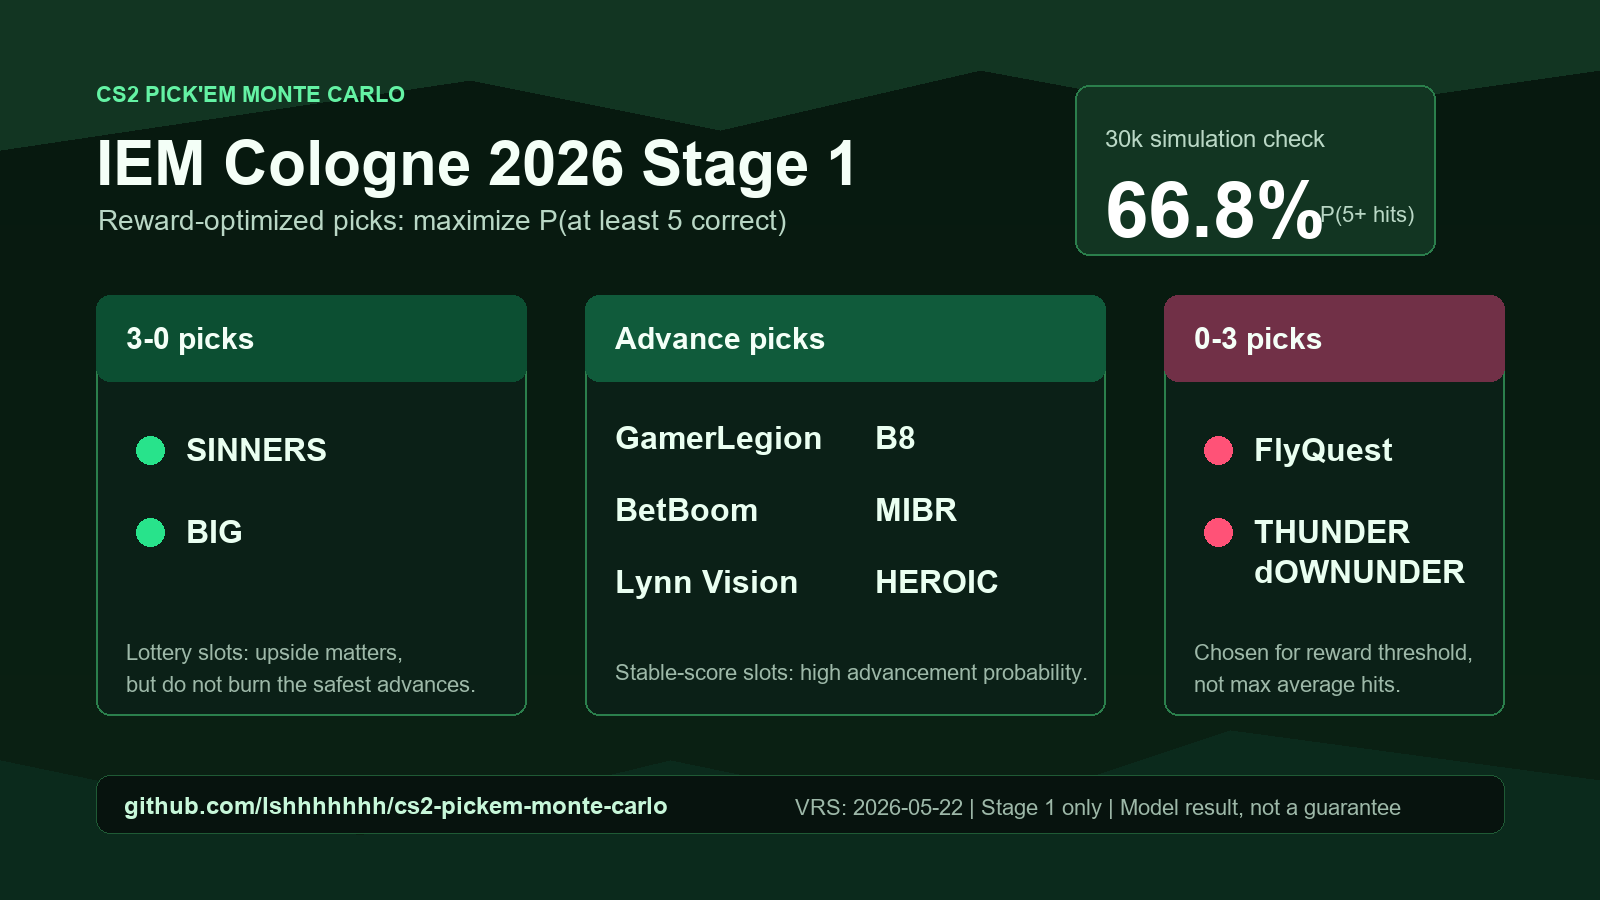
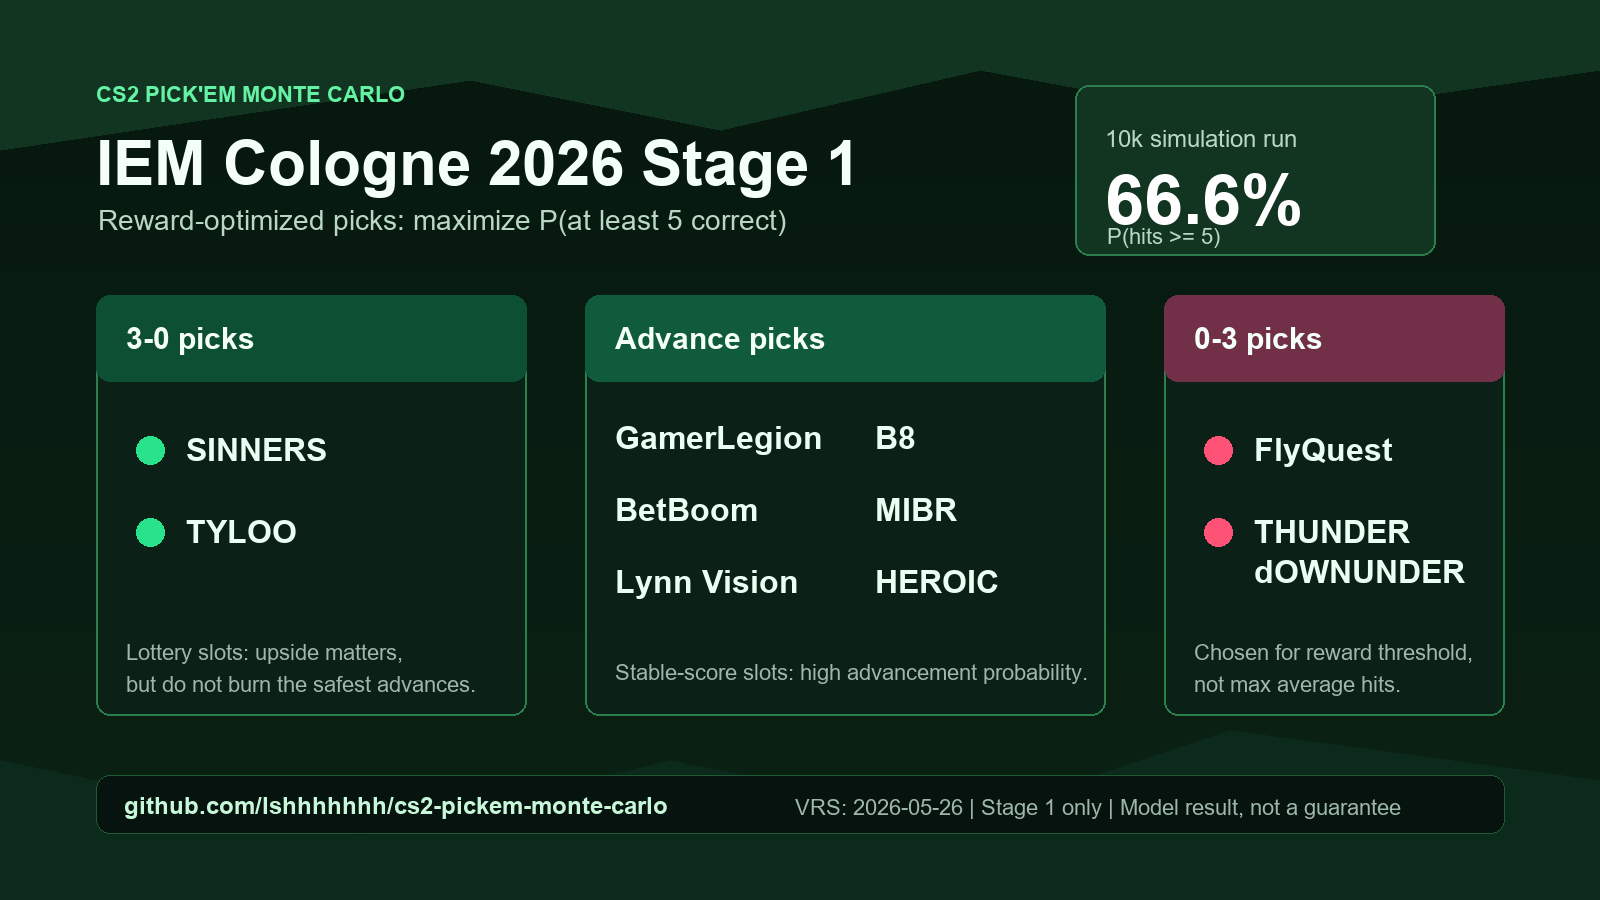
Update Stage 1 picks with May 26 VRS

Changed region(s): [[0.6875, 0.1244, 0.875, 0.28], [0.125, 0.56, 0.1875, 0.6222]]

diff --git a/scripts/render_result_card.py b/scripts/render_result_card.py
@@ -46,9 +46,9 @@ def main() -> None:
     text(draw, (98, 204), "Reward-optimized picks: maximize P(at least 5 correct)", 28, "#b9d7c5")
 
     rounded(draw, (1075, 85, 1435, 255), "#123522", "#2b7f4c", 2)
-    text(draw, (1105, 125), "30k simulation check", 24, "#b9d7c5")
-    text(draw, (1105, 166), "66.8%", 78, "#ffffff", True)
-    text(draw, (1107, 226), "P(hits >= 5)", 22, "#b9d7c5")
+    text(draw, (1105, 125), "10k simulation run", 24, "#b9d7c5")
+    text(draw, (1105, 160), "66.6%", 70, "#ffffff", True)
+    text(draw, (1107, 224), "P(hits >= 5)", 22, "#b9d7c5")
 
     panels = [
         ((96, 295, 526, 715), "#0c4f32", "3-0 picks"),
@@ -61,7 +61,7 @@ def main() -> None:
         draw.rounded_rectangle((x1, y1, x2, y1 + 86), radius=14, fill=header)
         text(draw, (x1 + 30, y1 + 26), title, 30, "#f4fff7", True)
 
-    for y, name in [(450, "SINNERS"), (532, "BIG")]:
+    for y, name in [(450, "SINNERS"), (532, "TYLOO")]:
         draw.ellipse((136, y - 14, 164, y + 14), fill="#28e38b")
         text(draw, (186, y - 18), name, 32, "#eafff1", True)
     text(draw, (126, 640), "Lottery slots: upside matters,", 22, "#9db8a8")
@@ -81,7 +81,7 @@ def main() -> None:
 
     rounded(draw, (96, 775, 1504, 833), "#07130e", "#1f5a35", 1)
     text(draw, (124, 792), "github.com/lshhhhhhh/cs2-pickem-monte-carlo", 24, "#c7f7d9", True)
-    text(draw, (795, 795), "VRS: 2026-05-22 | Stage 1 only | Model result, not a guarantee", 22, "#9db8a8")
+    text(draw, (795, 795), "VRS: 2026-05-26 | Stage 1 only | Model result, not a guarantee", 22, "#9db8a8")
 
     OUT.parent.mkdir(parents=True, exist_ok=True)
     img.save(OUT)

diff --git a/iem_cologne_pickem_mc.py b/iem_cologne_pickem_mc.py
@@ -437,7 +437,7 @@ def render_markdown_report(
 def main() -> None:
     parser = argparse.ArgumentParser()
     parser.add_argument("--event", type=Path, default=Path("data/iem_cologne_2026_stage1.json"))
-    parser.add_argument("--vrs-csv", type=Path, default=Path("data/vrs_2026-05-22.csv"))
+    parser.add_argument("--vrs-csv", type=Path, default=Path("data/vrs_2026-05-26.csv"))
     parser.add_argument("--vrs-url", help="Optional HLTV Valve ranking URL to fetch and convert to CSV before simulation.")
     parser.add_argument("--vrs-html", type=Path, help="Optional saved HLTV Valve ranking HTML/text file to convert to CSV before simulation.")
     parser.add_argument("--write-vrs-csv", type=Path, help="Where to save rows fetched from --vrs-url.")

diff --git a/reports/iem_cologne_2026_stage1_report.md b/reports/iem_cologne_2026_stage1_report.md
@@ -1,27 +1,24 @@
 # IEM Cologne Major 2026 Stage 1 Pick'Em Report
 
-This report covers Stage 1 only. It does not include Stage 2, Stage 3, or
-Playoffs Pick'Em predictions.
-
 ## Summary
 
 - Simulations: 10,000
 - Reward target: at least 5 correct picks
 - VRS logistic scale: 400
 - Random seed: 20260522
-- Reward-optimized success probability: 66.1%
-- Reward-optimized expected hits: 4.971 / 10
+- Reward-optimized success probability: 66.6%
+- Reward-optimized expected hits: 4.968 / 10
 
 ## Recommended Picks
 
-- 3-0: SINNERS, BIG
-- Advance: GamerLegion, B8, BetBoom, MIBR, Lynn Vision, HEROIC
+- 3-0: SINNERS, TYLOO
+- Advance: GamerLegion, B8, MIBR, BetBoom, Lynn Vision, HEROIC
 - 0-3: FlyQuest, THUNDER dOWNUNDER
 
 ## Reference: Expected-Hit Optimizer
 
-- Expected hits: 4.986 / 10
-- Probability of reward threshold: 65.6%
+- Expected hits: 5.005 / 10
+- Probability of reward threshold: 66.4%
 
 - 3-0: BIG, SINNERS
 - Advance: GamerLegion, B8, HEROIC, BetBoom, MIBR, Lynn Vision
@@ -31,35 +28,25 @@ Playoffs Pick'Em predictions.
 
 | Team | VRS Rank | Points | P(3-0) | P(Advance) | P(0-3) |
 | --- | ---: | ---: | ---: | ---: | ---: |
-| GamerLegion | 11 | 1739 | 34.2% | 88.4% | 1.9% |
-| B8 | 16 | 1608 | 19.7% | 74.3% | 4.6% |
-| BetBoom | 18 | 1575 | 21.7% | 73.0% | 4.6% |
-| MIBR | 19 | 1545 | 23.8% | 71.8% | 4.2% |
-| Lynn Vision | 25 | 1438 | 15.0% | 58.4% | 7.4% |
-| HEROIC | 23 | 1469 | 12.7% | 58.2% | 8.2% |
-| SINNERS | 28 | 1391 | 13.0% | 51.9% | 8.4% |
-| BIG | 26 | 1422 | 11.1% | 50.8% | 10.6% |
-| M80 | 29 | 1389 | 9.0% | 46.4% | 13.3% |
-| TYLOO | 27 | 1391 | 9.1% | 45.9% | 13.5% |
-| Liquid | 36 | 1327 | 8.2% | 39.8% | 13.9% |
-| Sharks | 43 | 1296 | 6.2% | 35.7% | 17.1% |
-| Gaimin Gladiators | 47 | 1285 | 5.2% | 32.4% | 19.9% |
-| NRG | 42 | 1296 | 4.1% | 30.1% | 23.4% |
-| THUNDER dOWNUNDER | 56 | 1222 | 4.2% | 26.1% | 21.9% |
-| FlyQuest | 74 | 1135 | 2.7% | 16.7% | 27.0% |
+| GamerLegion | 11 | 1726 | 34.7% | 88.7% | 1.8% |
+| B8 | 16 | 1591 | 18.9% | 73.3% | 4.7% |
+| MIBR | 19 | 1544 | 24.3% | 73.2% | 3.9% |
+| BetBoom | 17 | 1562 | 22.1% | 73.1% | 4.2% |
+| Lynn Vision | 24 | 1442 | 16.1% | 60.8% | 6.7% |
+| HEROIC | 23 | 1447 | 12.0% | 56.9% | 8.5% |
+| SINNERS | 30 | 1382 | 12.8% | 52.1% | 8.1% |
+| BIG | 27 | 1415 | 11.2% | 51.9% | 10.4% |
+| TYLOO | 29 | 1390 | 9.8% | 48.1% | 12.6% |
+| M80 | 31 | 1379 | 9.0% | 46.3% | 13.3% |
+| Liquid | 41 | 1309 | 7.8% | 39.5% | 13.9% |
+| Sharks | 46 | 1282 | 6.3% | 35.7% | 16.8% |
+| NRG | 50 | 1271 | 3.7% | 28.7% | 24.2% |
+| Gaimin Gladiators | 53 | 1237 | 4.3% | 28.2% | 22.7% |
+| THUNDER dOWNUNDER | 57 | 1211 | 4.1% | 26.0% | 22.0% |
+| FlyQuest | 76 | 1130 | 2.9% | 17.7% | 26.4% |
 
 ## Notes
 
 - The reward optimizer maximizes the chance of crossing the Pick'Em reward threshold, not raw average hit count.
 - Swiss pairings after round 1 are approximated inside score groups by Buchholz, with rematches avoided where possible.
 - VRS points are translated into map win probability with a logistic curve; change `--scale` for sensitivity testing.
-
-## Convergence Check
-
-- The 10,000-simulation recommendation was stable across several random seeds.
-- Two additional 30,000-simulation runs with seeds `101` and `102` both returned the same reward-optimized picks:
-  - 3-0: SINNERS, BIG
-  - Advance: GamerLegion, B8, BetBoom, MIBR, Lynn Vision, HEROIC
-  - 0-3: FlyQuest, THUNDER dOWNUNDER
-- Both 30,000-simulation runs estimated `P(hits >= 5)` at 66.8%.
-- This supports practical convergence for the current model, but it is not a formal guarantee.

diff --git a/README.md b/README.md
@@ -13,12 +13,12 @@ Reward target: maximize the chance of getting at least 5 correct Stage 1 picks.
 
 | Pick category | Teams |
 | --- | --- |
-| `3-0` | SINNERS, BIG |
+| `3-0` | SINNERS, TYLOO |
 | `Advance` | GamerLegion, B8, BetBoom, MIBR, Lynn Vision, HEROIC |
 | `0-3` | FlyQuest, THUNDER dOWNUNDER |
 
-Model estimate: `P(hits >= 5) = 66.8%` in two 30,000-simulation convergence
-checks. Full report: [`reports/iem_cologne_2026_stage1_report.md`](reports/iem_cologne_2026_stage1_report.md).
+Model estimate: `P(hits >= 5) = 66.6%` with the 2026-05-26 VRS update. Full
+report: [`reports/iem_cologne_2026_stage1_report.md`](reports/iem_cologne_2026_stage1_report.md).
 
 The main objective is the in-game reward threshold, for example "get five
 correct Pick'Em predictions", not simply the highest average number of correct
@@ -33,7 +33,7 @@ python .\iem_cologne_pickem_mc.py --sims 10000 --report reports\iem_cologne_2026
 The default event is IEM Cologne Major 2026 Stage 1, using:
 
 - `data/iem_cologne_2026_stage1.json`
-- `data/vrs_2026-05-22.csv`
+- `data/vrs_2026-05-26.csv`
 
 ## Updating VRS
 
@@ -95,11 +95,11 @@ Useful options:
 
 ## Simulation Count
 
-For IEM Cologne Major 2026 Stage 1, 10,000 simulations were enough to identify
-the same reward-optimized pick set across several random seeds. Two additional
-30,000-simulation checks with seeds `101` and `102` also returned the same
-recommended picks with `P(hits >= 5) = 66.8%`.
+For IEM Cologne Major 2026 Stage 1, 10,000 simulations are used as the default
+quick iteration count. Earlier 2026-05-22 VRS checks were stable across several
+random seeds, including two 30,000-simulation runs. The current README result
+uses the newer 2026-05-26 VRS snapshot.
 
-This is evidence of practical convergence for the current model, not a formal
-guarantee. Model assumptions and VRS freshness matter more than the remaining
-Monte Carlo sampling error.
+This is evidence of practical stability for the model, not a formal guarantee.
+Model assumptions and VRS freshness matter more than the remaining Monte Carlo
+sampling error.